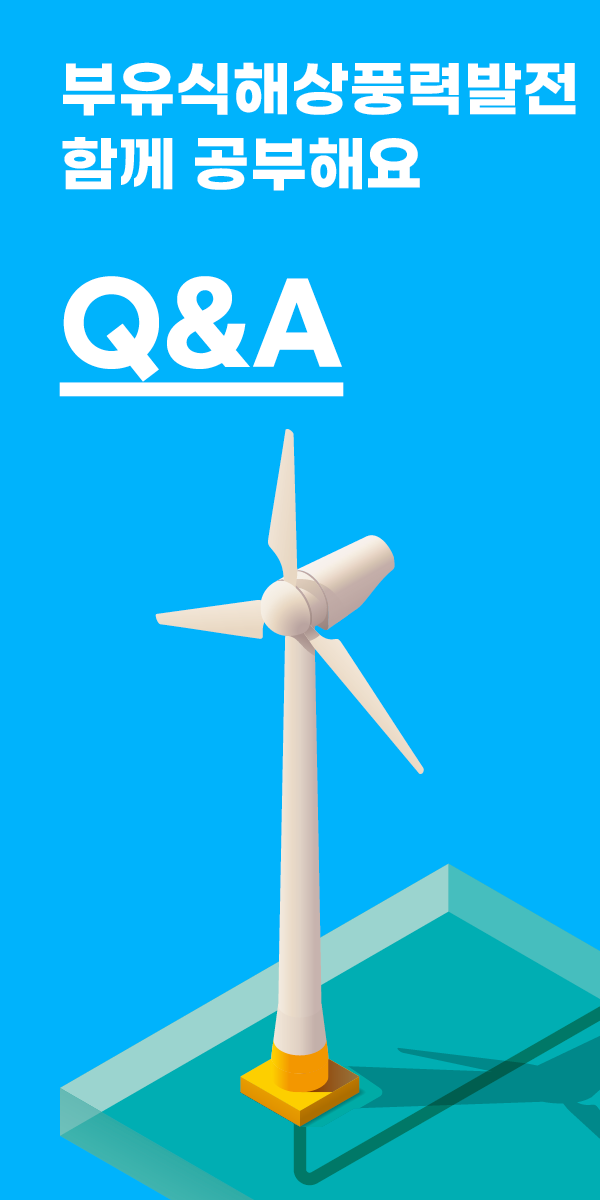
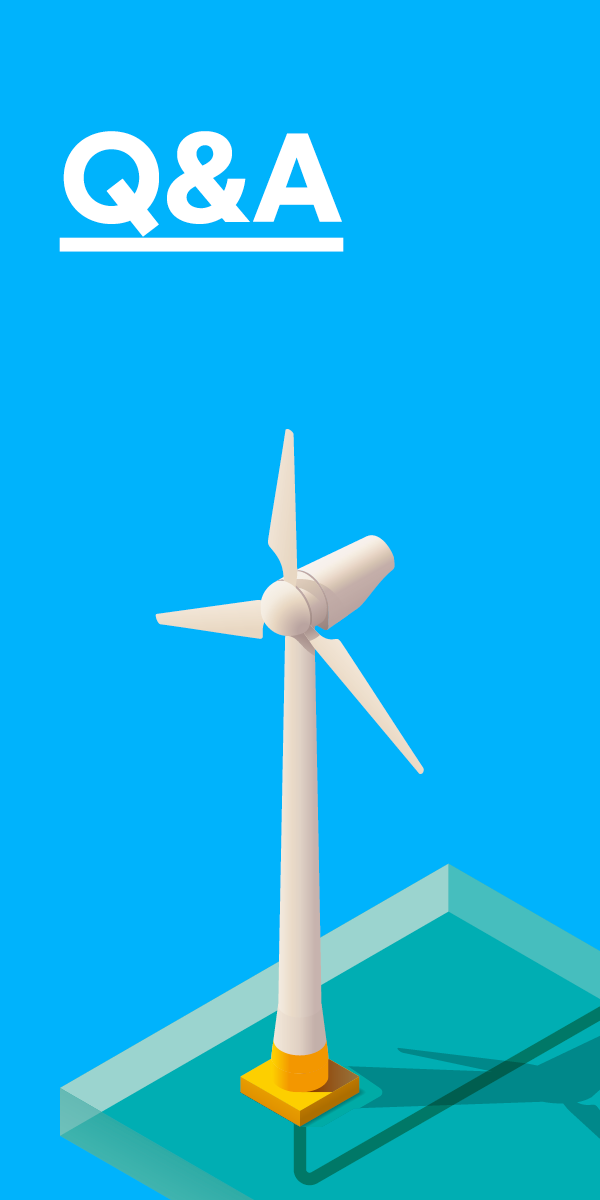
이미지 교체 및 홍보, 질답 추가, 세로 너비 조정

Changed region(s): [[0.09, 0.0308, 0.96, 0.3392]]

diff --git a/publicity/index.html b/publicity/index.html
@@ -43,47 +43,18 @@
         <nav id="dropdown_menu">
           <ul>
             <a href="https://docs.google.com/forms/d/e/1FAIpQLSd_2NZxGXndDHxwtLhBzjE6JhNGOXp4Ftd4QMBgTvcLqbkkig/viewform?usp=pp_url&entry.175753170=+&entry.1172270084=010-" target="_blank"><li>지지서명하기</li></a>
-            <a href="./index.html"><li>언론보도</li></a>
+            <a href="../news/"><li>언론보도</li></a>
             <a href="../conference/"><li>회견문</li></a>
             <a href="../qna/"><li>Q&A</li></a>
             <a href="https://forms.gle/UaGAfHT54RDtSVSo9" target="_blank"><li>의견 보내기</li></a>
-            <a href="../publicity/">홍보 일정</a>
+            <a href="./index.html">홍보 일정</a>
           </ul>
         </nav>
       </div>
     </header>
 
     <section class="contents" id="conference">
-      <h1>언론보도</h1>
-      <a href="http://www.usjournal.kr/news/newsview.php?ncode=1065592879915077" target="_blank">
-        <h2>“더는 정쟁 도구 돼선 안 돼” 부유식 해상풍력 시민들이 나섰다...부유식해상풍력울산시민추진단 출범 기자회견</h2>
-      </a>
-      <h3>울산저널i</h3>
-      <a href="http://m.ohmynews.com/NWS_Web/View/at_pg.aspx?CNTN_CD=A0002826332" target="_blank">
-        <h2>"울산부유식해상풍력은 미래먹거리, 시민 힘 모아야"</h2>
-      </a>
-      <h3>오마이뉴스</h3>
-      <a href="https://www.ujeil.com/news/articleView.html?idxno=301704" target="_blank">
-        <h2>‘부유식해상풍력 울산시민추진단’ 발족</h2>
-      </a>
-      <h3>울산제일일보</h3>
-      <a href="http://www.usjournal.kr/news/newsview.php?ncode=1065591689562790" target="_blank">
-        <h2>“부유식 해상풍력, 울산 산업전환과 RE100 대응에 필수”</h2>
-      </a>
-      <h3>울산저널i</h3>
-      <a href="http://www.ohmynews.com/NWS_Web/View/at_pg.aspx?CNTN_CD=A0002822905" target="_blank">
-        <h2>울산시민들, '부유식 해상풍력' 지원 나선다</h2>
-      </a>
-      <h3>오마이뉴스</h3>
-      <a href="http://www.ksilbo.co.kr/news/articleView.html?idxno=932543" target="_blank">
-        <h2>“울산 부유식해상풍력 성공을”</h2>
-      </a>
-      <h3>경상일보</h3>
-      <a href="http://www.iusm.co.kr/news/articleView.html?idxno=943469" target="_blank">
-        <h2>해상풍력울산시민추진단 발족 기자회견</h2>
-      </a>
-      <h3>울산매일</h3>
-      
+      <img src="../images/publicity.jpeg" alt="홍보 일정">
     </section>
 
     <footer>

diff --git a/qna/index.html b/qna/index.html
@@ -43,9 +43,9 @@
         <nav id="dropdown_menu">
           <ul>
             <a href="https://docs.google.com/forms/d/e/1FAIpQLSd_2NZxGXndDHxwtLhBzjE6JhNGOXp4Ftd4QMBgTvcLqbkkig/viewform?usp=pp_url&entry.175753170=+&entry.1172270084=010-" target="_blank"><li>지지서명하기</li></a>
-            <a href="./index.html"><li>언론보도</li></a>
+            <a href="../news/"><li>언론보도</li></a>
             <a href="../conference/"><li>회견문</li></a>
-            <a href="../qna/"><li>Q&A</li></a>
+            <a href="./index.html"><li>Q&A</li></a>
             <a href="https://forms.gle/UaGAfHT54RDtSVSo9" target="_blank"><li>의견 보내기</li></a>
             <a href="../publicity/">홍보 일정</a>
           </ul>
@@ -54,36 +54,7 @@
     </header>
 
     <section class="contents" id="conference">
-      <h1>언론보도</h1>
-      <a href="http://www.usjournal.kr/news/newsview.php?ncode=1065592879915077" target="_blank">
-        <h2>“더는 정쟁 도구 돼선 안 돼” 부유식 해상풍력 시민들이 나섰다...부유식해상풍력울산시민추진단 출범 기자회견</h2>
-      </a>
-      <h3>울산저널i</h3>
-      <a href="http://m.ohmynews.com/NWS_Web/View/at_pg.aspx?CNTN_CD=A0002826332" target="_blank">
-        <h2>"울산부유식해상풍력은 미래먹거리, 시민 힘 모아야"</h2>
-      </a>
-      <h3>오마이뉴스</h3>
-      <a href="https://www.ujeil.com/news/articleView.html?idxno=301704" target="_blank">
-        <h2>‘부유식해상풍력 울산시민추진단’ 발족</h2>
-      </a>
-      <h3>울산제일일보</h3>
-      <a href="http://www.usjournal.kr/news/newsview.php?ncode=1065591689562790" target="_blank">
-        <h2>“부유식 해상풍력, 울산 산업전환과 RE100 대응에 필수”</h2>
-      </a>
-      <h3>울산저널i</h3>
-      <a href="http://www.ohmynews.com/NWS_Web/View/at_pg.aspx?CNTN_CD=A0002822905" target="_blank">
-        <h2>울산시민들, '부유식 해상풍력' 지원 나선다</h2>
-      </a>
-      <h3>오마이뉴스</h3>
-      <a href="http://www.ksilbo.co.kr/news/articleView.html?idxno=932543" target="_blank">
-        <h2>“울산 부유식해상풍력 성공을”</h2>
-      </a>
-      <h3>경상일보</h3>
-      <a href="http://www.iusm.co.kr/news/articleView.html?idxno=943469" target="_blank">
-        <h2>해상풍력울산시민추진단 발족 기자회견</h2>
-      </a>
-      <h3>울산매일</h3>
-      
+      <p style="text-align: center;">준비중입니다.</p>
     </section>
 
     <footer>

diff --git a/index.html b/index.html
@@ -7,7 +7,7 @@
   <meta http-equiv="X-UA-Compatible" content="IE=edge">
   <meta name="viewport" content="width=device-width, initial-scale=1" />
 
-  <title>울산에 해상풍력이 옵니다</title>
+  <title>해상풍력 울산시민추진단</title>
 
   <!-- 구글 폰트 및 머티리얼 아이콘 -->
   <link rel="preconnect" href="https://fonts.googleapis.com">
@@ -36,13 +36,14 @@
     </header>
 
     <section id="main">
-      <a class="cube cube100" title="지지서명" target="_blank" href="https://docs.google.com/forms/d/e/1FAIpQLSd_2NZxGXndDHxwtLhBzjE6JhNGOXp4Ftd4QMBgTvcLqbkkig/viewform?usp=pp_url&entry.1172270084=010-" ></a>
+      <a class="cube cube100" title="지지서명" target="_blank" href="https://docs.google.com/forms/d/e/1FAIpQLSd_2NZxGXndDHxwtLhBzjE6JhNGOXp4Ftd4QMBgTvcLqbkkig/viewform?usp=pp_url&entry.175753170=+&entry.1172270084=010-" ></a>
       <div class="cube cube50">
-        <a class="cube cube25" href="./news/"></a>
-        <a class="cube cube25" href="./conference"></a>
+        <a class="cube cube25" href="./news/" title="언론보도"></a>
+        <a class="cube cube25" href="./conference" title="회견문"></a>
       </div>
-      <a class="cube cube50"></a>
+      <a class="cube cube50" href="./qna/" title="QNA"></a>
       <a class="cube cube100h" title="의견보내기" target="_blank" href="https://forms.gle/UaGAfHT54RDtSVSo9"></a>
+      <a class="cube cube100h" title="홍보일정" href="./publicity/"></a>
     </section>
 
     <footer>

diff --git a/css/main.css b/css/main.css
@@ -21,7 +21,7 @@ img {
 
 a {
   color: #666;
-  text-decoration: none;
+  text-decoration-line: underline;
 }
 
 h1, h2, h3, h4, h5, h6, p, ul {
@@ -40,7 +40,7 @@ body {
 
 /* 헤더 */
 header {
-  padding: 20px;
+  padding: 10px 20px 5px;
   display: flex;
   background-color: #fff;
   /* justify-content:center; */
@@ -48,7 +48,7 @@ header {
 }
 
 header .logo {
-  width: 20%;
+  width: 50%;
   min-width: 100px;
 }
 
@@ -141,19 +141,26 @@ header .header__menu #dropdown_menu ul a:hover {
   background-size: cover;
 }
 
-#main .cube100h {
+#main .cube100h:nth-child(4) {
   width: 100%;
   background:url(../images/cube5.png);
+  background-size: cover;
+}
+
+#main .cube100h:nth-child(5) {
+  width: 100%;
+  background:url(../images/cube6.png);
   background-size: cover;
 }
 
 /* 푸터 */
 footer {
   width: 100%;
-  height: 80px;
+  height: 60px;
   display: flex;
   justify-content:center;
   align-items: center;
+  font-size: 12px;
 }
 
 footer .copyright {
@@ -170,7 +177,7 @@ footer .copyright {
 }
 
 .contents h2 {
-  font-size: 22px;
+  font-size: 20px;
   color:#000
 }
 
@@ -186,6 +193,7 @@ footer .copyright {
   margin-top: 0;
   color: #666;
 }
+
 
 #conference ul {
   margin-top: 40px;

diff --git a/conference/index.html b/conference/index.html
@@ -42,11 +42,12 @@
         <!-- 메뉴 -->
         <nav id="dropdown_menu">
           <ul>
-            <a href="https://docs.google.com/forms/d/e/1FAIpQLSd_2NZxGXndDHxwtLhBzjE6JhNGOXp4Ftd4QMBgTvcLqbkkig/viewform?usp=pp_url&entry.1172270084=010-" target="_blank"><li>지지서명하기</li></a>
+            <a href="https://docs.google.com/forms/d/e/1FAIpQLSd_2NZxGXndDHxwtLhBzjE6JhNGOXp4Ftd4QMBgTvcLqbkkig/viewform?usp=pp_url&entry.175753170=+&entry.1172270084=010-" target="_blank"><li>지지서명하기</li></a>
             <a href="../news/"><li>언론보도</li></a>
             <a href="./index.html"><li>회견문</li></a>
-            <a href=""><li>Q&A</li></a>
+            <a href="../qna/"><li>Q&A</li></a>
             <a href="https://forms.gle/UaGAfHT54RDtSVSo9" target="_blank"><li>의견 보내기</li></a>
+            <a href="../publicity/">홍보 일정</a>
           </ul>
         </nav>
       </div>

diff --git a/js/main.js b/js/main.js
@@ -24,6 +24,15 @@ cubeHeight();
 $(window).resize(cubeHeight);
 
 
+let wrapHeight = function () {
+  let = windowHeight = $(window).innerHeight();
+  $('.contents').css('min-height', windowHeight - $('header').height() - $('footer').height());
+}
+
+wrapHeight();
+$(window).resize(wrapHeight);
+
+
 // 카피라이트 현재 년도 표시
 const thisYear = document.querySelector('.this-year');
 thisYear.textContent = new Date().getFullYear(); // 현재의 년도 (2022)
@@ -34,6 +43,6 @@ $('.menu__button').click(function () {
   if (dropdownMenu.height() > 0) {
     dropdownMenu.css('height', '0');
   } else {
-    dropdownMenu.css('height', '312px');
+    dropdownMenu.css('height', '374.4px');
   };
 });
